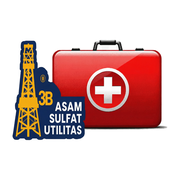
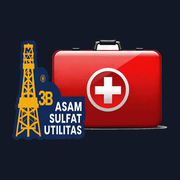
Ikon aplikasi berlatar gelap (#121826) di semua ukuran
- icon-192/512, apple-touch-icon 180, maskable 512, favicon 32 dengan latar gelap
- pasang.html: ikon tampil dengan sudut membulat; service worker v15

Claude-Session: https://claude.ai/code/session_01JMjrSkCQgrKCpvZ28iQx8s

diff --git a/pasang.html b/pasang.html
@@ -28,7 +28,7 @@
   .k { font-family: "Barlow Condensed", system-ui, sans-serif; font-weight: 600; text-transform: uppercase; letter-spacing: .14em; }
   main { max-width: 460px; margin: 0 auto; padding: max(28px, env(safe-area-inset-top)) 16px 40px; display: flex; flex-direction: column; gap: 16px; }
   .hero { display: flex; gap: 16px; align-items: center; }
-  .hero img { width: 96px; height: 96px; flex: none; object-fit: contain; filter: drop-shadow(0 6px 14px rgba(0,0,0,.45)); }
+  .hero img { width: 88px; height: 88px; flex: none; border-radius: 22px; border: 1px solid rgba(236,238,242,.14); box-shadow: 0 8px 24px rgba(0,0,0,.5); }
   .hero h1 { font: 700 30px/1.02 "Barlow Condensed", system-ui, sans-serif; letter-spacing: .02em; text-transform: uppercase; }
   .hero p { color: var(--mut); font-size: 13px; margin-top: 4px; }
   .eyebrow { font-size: 10.5px; color: var(--gold); }
@@ -67,7 +67,7 @@
 <body>
 <main>
   <section class="hero">
-    <img src="./icon-192.png" alt="Ikon FirstAid SASU3B">
+    <img src="./icon-512.png?v=14" alt="Ikon FirstAid SASU3B">
     <div>
       <div class="k eyebrow">Aplikasi stok kotak P3K</div>
       <h1>FirstAid<br>SASU3B</h1>

diff --git a/sw.js b/sw.js
@@ -1,7 +1,7 @@
 /* FirstAid SASU3B — service worker
    App shell cache-first, data Google Sheets network-first dengan fallback cache
    supaya aplikasi tetap terbaca di area plant tanpa sinyal. */
-const SHELL = 'fa-sasu3b-shell-v14';
+const SHELL = 'fa-sasu3b-shell-v15';
 const DATA = 'fa-sasu3b-data-v6';
 const SHELL_FILES = [
   './', './index.html', './pasang.html', './manifest.webmanifest', './config.js', './pdfdoc.js',
